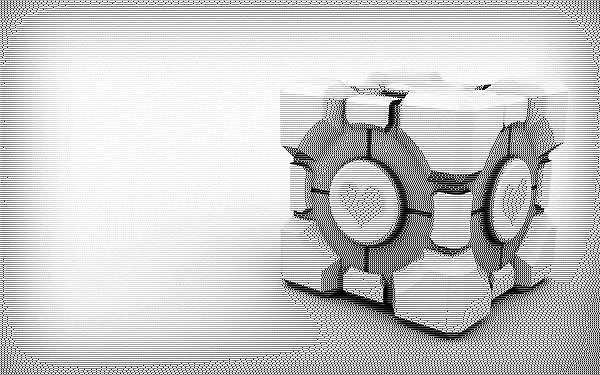
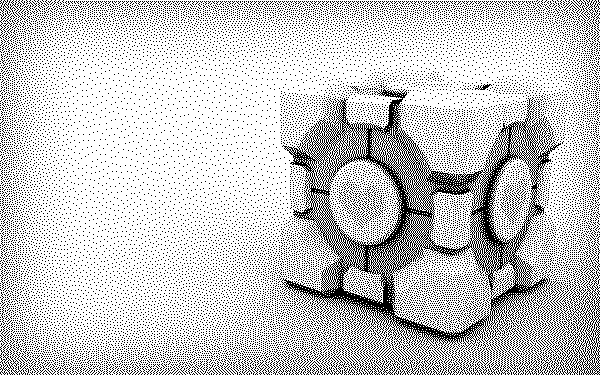
fixed bug when odd rows wasn't affected by alghorithm

diff --git a/src/Lab2.java b/src/Lab2.java
@@ -90,21 +90,23 @@ public class Lab2 {
         var errs = new int[colorChannelsCount];
 
         for (int y = 0; y < img.rows(); y++){
-            int x_end, x_start, dithMatEnd, dithMatStart, dithMatStep;
-            if (y % 2 == 0 & isChangingDirection){
-                x_end = -1;
-                x_start = img.cols() - 1;
+            int xEnd, xStart, xStep, dithMatEnd, dithMatStart, dithMatStep;
+            if ((y % 2 != 0) && isChangingDirection){
+                xEnd = -1;
+                xStart = img.cols() - 1;
+                xStep = -1;
                 dithMatEnd = -1;
                 dithMatStart = ditheringMatrix[0].length - 1;
                 dithMatStep = -1;
             }else{
-                x_end = img.cols();
-                x_start = 0;
+                xEnd = img.cols();
+                xStart = 0;
+                xStep = 1;
                 dithMatEnd = ditheringMatrix[0].length;
                 dithMatStart = 0;
                 dithMatStep = 1;
             }
-            for (int x = x_start; x < x_end; x++){
+            for (int x = xStart; x != xEnd; x += xStep){
                 result.get(y, x, pixel);
                 for (int i = 0; i < colorChannelsCount; i++){
                     int oldValue = pixel[i] & 0xFF;
@@ -114,9 +116,9 @@ public class Lab2 {
                 }
 
                 for (int i = 0; i < ditheringMatrix.length; i++){
-                    for (int j = dithMatStart; j < dithMatEnd; j += dithMatStep){
+                    for (int j = dithMatStart; j != dithMatEnd; j += dithMatStep){
                         int y_ = y + i;
-                        int x_ = x + j - 1;
+                        int x_ = x + (j - 1) * dithMatStep;
                         if (y_ < img.rows() && x_ >= 0 && x_ < img.cols()){
                             var curPixel = new byte[img.channels()];
                             result.get(y_, x_, curPixel);
